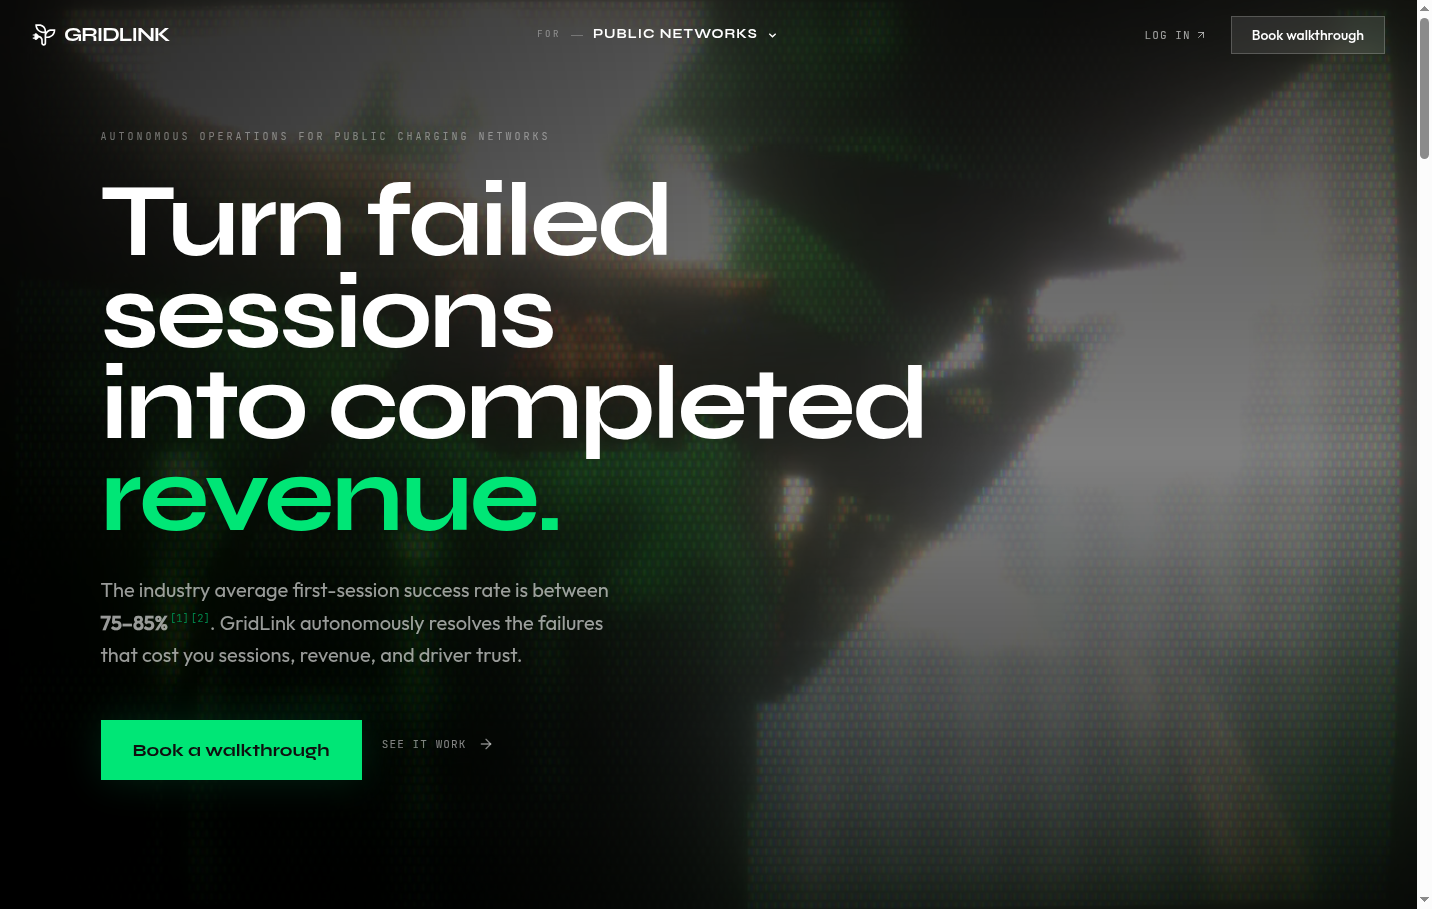
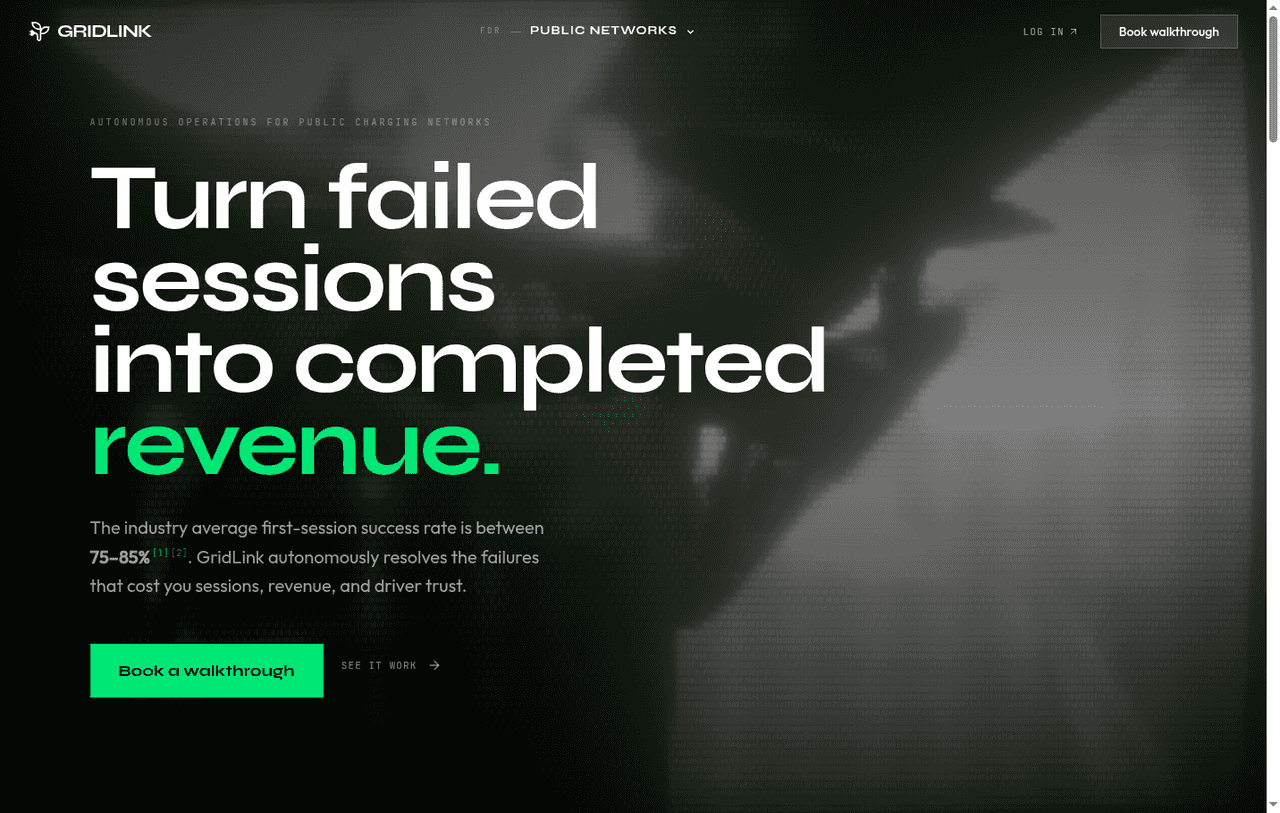
Add build-time prerendering (SSG) and optimize gridlink thumbnail
Prerender the SPA to static HTML at build time so the deployed index.html
ships real content for SEO, social unfurl, and first paint instead of an
empty #root.

- src/entry-server.tsx: server render() using react-dom/server renderToString
- src/main.tsx: switch createRoot -> hydrateRoot to reuse prerendered markup
- scripts/prerender.mjs: inject SSR HTML into dist/index.html, clean temp dir
- package.json build: tsc -b && vite build && vite build --ssr ... && prerender
- index.html: <noscript> fallback to un-hide Motion-hidden content for no-JS
- public/projects/gridlink.png: 1.1MB (1432x909) -> 130KB (1280x813)

wrangler.jsonc unchanged; still assets-only Workers Static Assets.

diff --git a/src/entry-server.tsx b/src/entry-server.tsx
@@ -1,0 +1,14 @@
+import { StrictMode } from "react";
+import { renderToString } from "react-dom/server";
+import App from "./App.tsx";
+
+// Build-time prerender entry. Returns the static HTML for <App /> so the
+// prerender script can inject it into dist/index.html. Wrapped in StrictMode
+// to match the client tree in src/main.tsx for clean hydration.
+export function render(): string {
+  return renderToString(
+    <StrictMode>
+      <App />
+    </StrictMode>,
+  );
+}

diff --git a/index.html b/index.html
@@ -34,6 +34,17 @@
       href="https://fonts.googleapis.com/css2?family=Inter:wght@400;500;600;700;800;900&display=swap"
       rel="stylesheet"
     />
+    <noscript>
+      <!-- Content is prerendered but starts visually hidden via Motion's
+           initial opacity/transform state until JS hydrates. For no-JS
+           visitors and JS-light crawlers, force it visible. -->
+      <style>
+        #root * {
+          opacity: 1 !important;
+          transform: none !important;
+        }
+      </style>
+    </noscript>
   </head>
   <body>
     <div id="root"></div>

diff --git a/src/main.tsx b/src/main.tsx
@@ -1,9 +1,12 @@
 import { StrictMode } from "react";
-import { createRoot } from "react-dom/client";
+import { hydrateRoot } from "react-dom/client";
 import App from "./App.tsx";
 import "./index.css";
 
-createRoot(document.getElementById("root")!).render(
+// The HTML is prerendered at build time (see scripts/prerender.mjs), so we
+// hydrate the existing markup instead of doing a fresh client render.
+hydrateRoot(
+  document.getElementById("root")!,
   <StrictMode>
     <App />
   </StrictMode>,